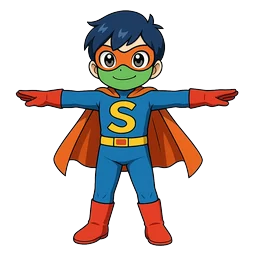
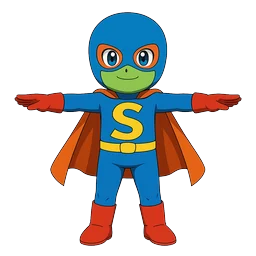
Styles: Anime keeps the drawn head; Original keeps the face readable
Raz: Anime added hair the drawing did not have; Original lost the eyes in
crayon texture. Anime no longer asks for stylized hair: the head stays as
drawn (mask, hood, helmet, bald) and hair appears only if drawn. Original
keeps the crayon texture on body and clothes but draws facial features as
clean solid shapes in their drawn place. Checked on two drawings (masked
Crayon Kid, long-haired Lady Milana) so the fix is not tuned to one.
Pixar, Lego and Minecraft prompts are untouched.

Claude-Session: https://claude.ai/code/session_01Ng7tYe76NeyKG1caM69u3J

Changed region(s): [[0.0625, 0.0312, 0.9375, 0.9688]]

diff --git a/backend/app/services/openai.py b/backend/app/services/openai.py
@@ -89,8 +89,9 @@ Render the character as a blocky voxel figure that is clearly the one in the dra
 ANIME_PROMPT = """Transform this drawing into an anime-style cel-shaded 3D character in T-pose position.
 
 Requirements:
-- One single character, built from the drawing: keep its colors, clothing, accessories, hairstyle and features
-- Anime look: big expressive eyes with bright highlights, small nose and mouth, stylized hair in clean sculpted shapes
+- One single character, built from the drawing: keep its colors, clothing, accessories and features
+- Keep the head exactly as drawn: a mask, hood, helmet or bald head stays that way. Add hair only if the drawing has hair, and then in its drawn shape and color
+- Anime look applied to what is drawn: large expressive eyes with bright highlights in the drawn eye positions, small nose and mouth, clean sculpted shapes
 - Cel shading: flat areas of color, crisp shadow edges, clean dark outlines
 - Front view, full body visible, standing upright, fully contained in the view without cropping.
 - T-pose: arms extended horizontally, legs straight
@@ -104,7 +105,8 @@ ORIGINAL_PROMPT = """Turn this drawing into a 3D figure that looks exactly like 
 
 Requirements:
 - One single character, as close to the drawing as possible: the same shapes, the same proportions, the same colors
-- Keep the hand-drawn look: crayon and marker texture on every surface, slightly wobbly outlines, uneven hand coloring
+- Keep the hand-drawn look: crayon and marker texture on the body, clothing and accessories, slightly wobbly outlines, uneven hand coloring
+- Keep the face readable: every facial feature in the drawing (eyes, mask, glasses, mouth) stays in the same place, size and color, as clean solid shapes, never covered or blurred by texture
 - Unfiltered: do not beautify, correct, smooth or add anything; no details that are not in the drawing
 - Give it real volume, as if the drawing itself had become a solid handmade figure
 - Front view, full body visible, standing upright, fully contained in the view without cropping.
